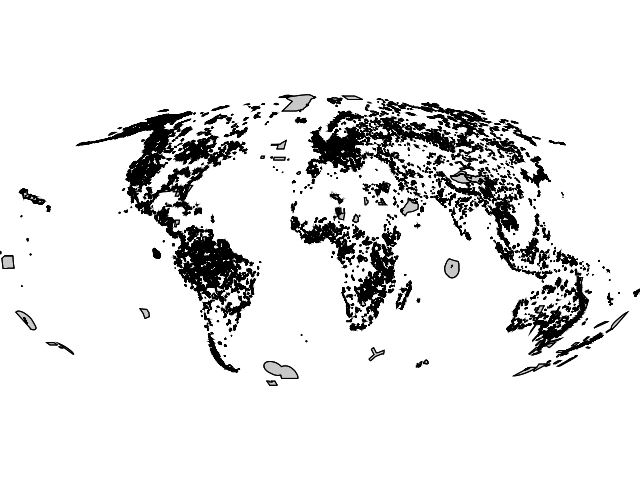
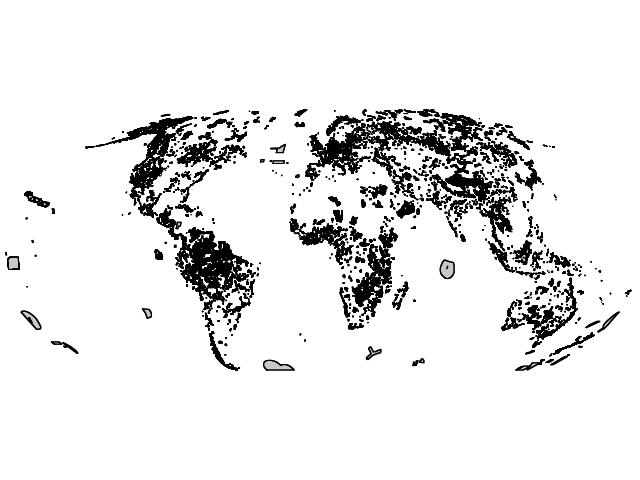
last

diff --git a/pas/subpas_loop_segm.py b/pas/subpas_loop_segm.py
@@ -19,7 +19,7 @@ gsetup.init(gisbase,
  
 print grass.gisenv()
 
-source = 'parks_segmented@ehabitat'
+source = 'parks_segmented_filter@ehabitat'
 #grass.run_command('v.in.ogr',flags='oe',dsn='.',lay=source,out=source,overwrite=True)
 grass. message ("Extracting list of PAs")
 pa_list0 = grass. read_command ('v.db.select', map=source,column='segm_id'). splitlines ()
@@ -61,25 +61,30 @@ for px in tqdm(range(0,n)): # 0
   # try to crop PAs shapefile with coastal line or input vars
   grass. message ("setting up the working region")
   grass.run_command('g.region',vect=pa0,res=1000)
-  grass.run_command('v.to.rast',input=pa0,out=pa0,use='cat',labelcol='segm_id')
-  opt3 = pa2+'= @'+pa0
-  opt4 = pa2+'= round('+pa2+')'
-  grass.run_command('r.mapcalc',expression=opt3,overwrite=True)
-  grass.run_command('r.mapcalc',expression=opt4,overwrite=True)
-  grass.run_command('r.mask', vector=pa0, where=opt1)
-  opt2 = pa4+'='+pa2
-  opt22 = pa4+'='+pa4
-  grass.run_command('r.mapcalc',expression=opt2,overwrite=True)
-  grass.run_command('g.remove', rast='MASK')
+  grass.run_command('v.to.rast',input=pa0,out=pa0,use='val')#use='cat',labelcol='segm_id')
+  #opt3 = pa2+'= @'+pa0
+  #opt4 = pa2+'= round('+pa2+')'
+  #grass.run_command('r.mapcalc',expression=opt3,overwrite=True)
+  #grass.run_command('r.mapcalc',expression=opt4,overwrite=True)
+  #grass.run_command('r.mask', vector=pa0, where=opt1)
+  #opt2 = pa4+'='+pa2
+  #opt22 = pa4+'='+pa4
+  optt = pa4+'='+pa0
+  #grass.run_command('r.mapcalc',expression=opt2,overwrite=True)
+  #grass.run_command('g.remove', rast='MASK')
   grass.run_command('r.mask', rast='pre') # new to crop parks to where we have indicators information
-  grass.run_command('r.mapcalc',expression=opt3,overwrite=True) # new
+  grass.run_command('r.mapcalc',expression=optt,overwrite=True) # opt3
   grass.run_command('g.remove', rast='MASK') # new
   grass.run_command('r.null',map=pa4,null=0)
-  grass.run_command('g.region',res=10)
   eco_list = grass.read_command ('r.stats', input='ecoregs_moll',sort='desc'). splitlines ()
   print eco_list
   eco = eco_list[0]
   if len(eco_list)>1 and eco == '*': eco = eco_list[1]
+  if len(eco_list)>1 and eco == '*':
+   grass.run_command('g.region',res=10)
+   eco_list = grass.read_command ('r.stats', input='ecoregs_moll',sort='desc'). splitlines ()
+   eco = eco_list[0]
+   if len(eco_list)>1 and eco == '*': eco = eco_list[1]
   print eco
   econame = str(eco)+'.csv'
   grass.run_command('g.region',res=1000)

diff --git a/ehab.py b/ehab.py
@@ -347,7 +347,7 @@ def	ehabitat(ecor,nw,nwpathout):
 				par = src_ds_pa.GetRasterBand(1)
 				pa_mask0 = par.ReadAsArray(0,0,par.XSize,par.YSize).astype(np.int32)
 				pa_mask = pa_mask0.flatten()
-				ind = pa_mask == int(pa)#>	0
+				ind = pa_mask >	0 #==int(pa)
 				go = 1
 				sum_pa_mask = sum(pa_mask[ind])/int(pa)
 				if sum_pa_mask < 3: go = 0	#	not	processing	areas	smaller	than	3	pixels
@@ -614,7 +614,7 @@ def	ehabitat(ecor,nw,nwpathout):
 						yless = sim.YSize - yextentpa
 						xsize = par.XSize
 						ysize = par.YSize
-						if xoff>0 and yoff>0 and pmhhmax>0.01 and hr1sum>1 and maxmh!=float('NaN')and ratiogeom < 100: #	also	checks	if results	are	not	empty
+						if xoff>0 and yoff>0 and pmhhmax>0.01 and hr1sum>1 and maxmh!=float('NaN'):#and ratiogeom < 100: #	also	checks	if results	are	not	empty
 
 							# reading the similarity ecoregion without the PA (tmp mask)
 							os.system('gdal_merge.py '+str(ecofile)+' '+str(pa4)+' -o '+str(outfile3)+' -ot Int32')
